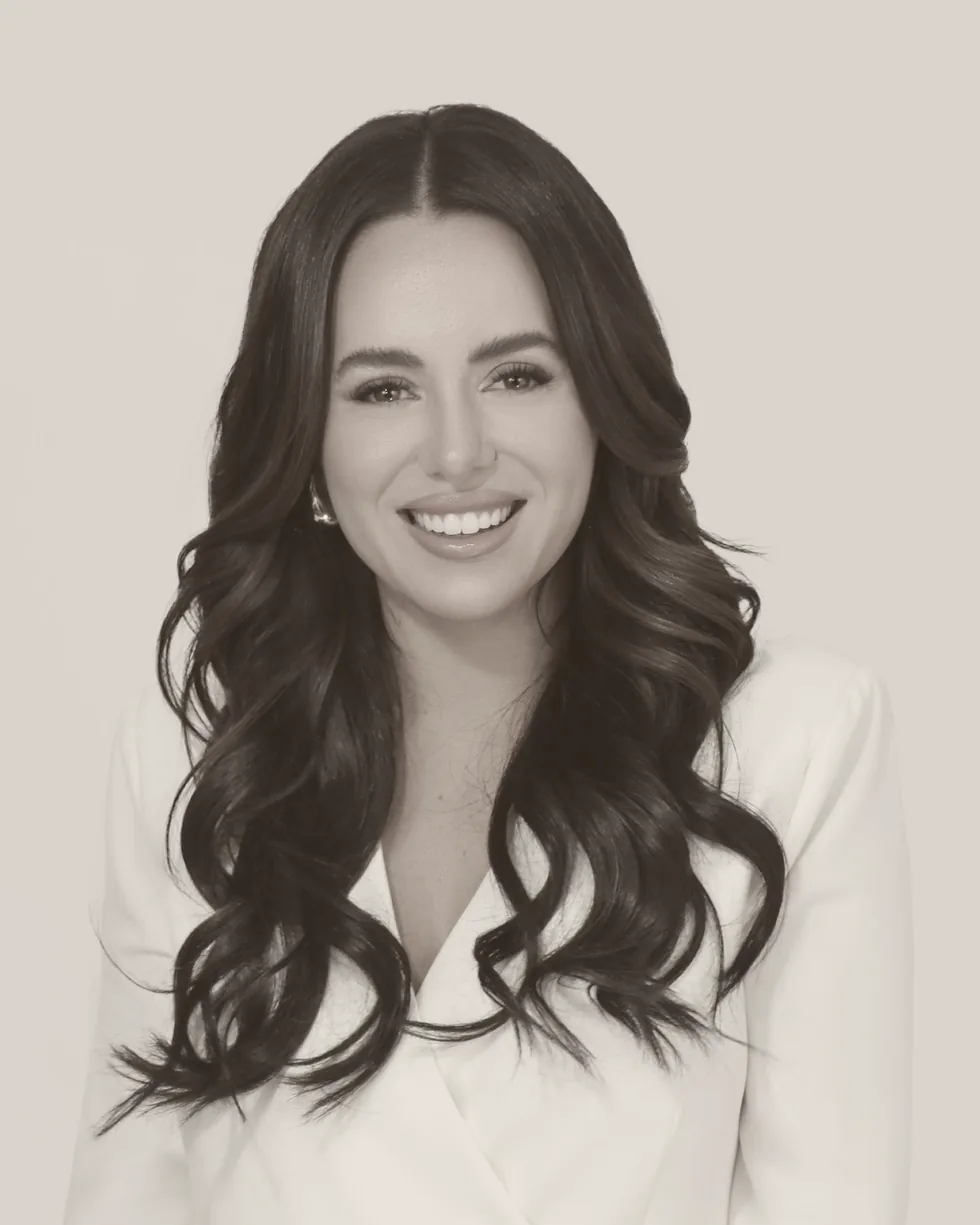
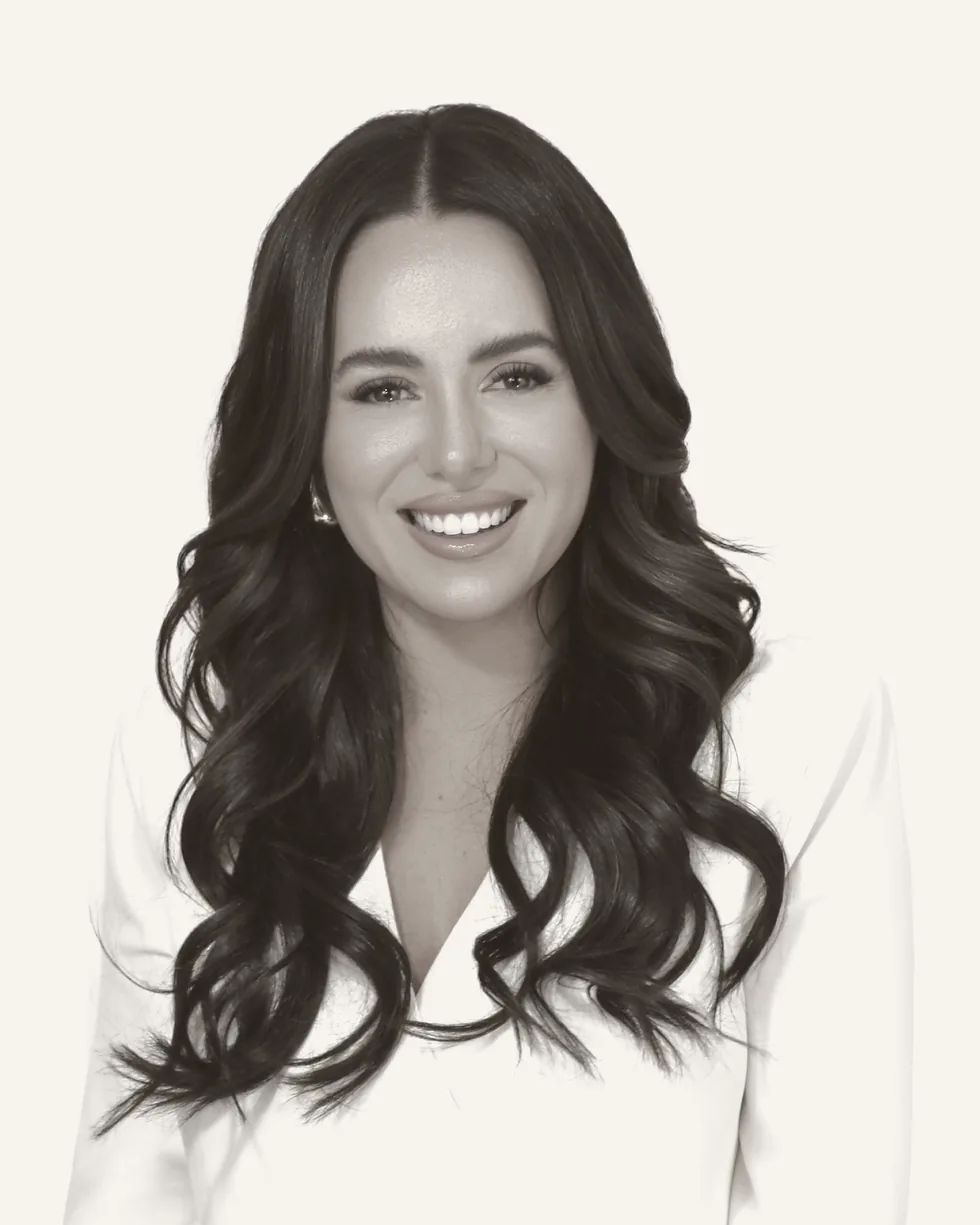
fix: right-size the hero portrait and drop the frame around the About photo
- Hero photo is smaller and its baseline now lines up with the bottom of
  the copy block, instead of running the full height of the section
- The black and white portrait in About has its backdrop mapped to the
  exact section cream, so it floats with no visible frame. Real colour is
  blended back only where there is a subject, which keeps the backdrop pure
- Mobile hero height reset so the 4:5 crop still applies there

Lighthouse mobile 100 / 100 / 100 / 100.

diff --git a/index.html b/index.html
@@ -175,12 +175,12 @@ h3.d{font-size:clamp(1.7rem,3vw,2.5rem);line-height:1.1}
 .burger.x span:nth-child(2){transform:translateY(-4px) rotate(-45deg)}
 
 /* ---------- hero ---------- */
-.hero{position:relative;padding:clamp(8rem,14vh,11rem) 0 0;overflow:hidden;background:var(--hero)}
+.hero{position:relative;padding:clamp(8rem,14vh,11rem) 0 clamp(2.5rem,6vh,4.5rem);overflow:hidden;background:var(--hero)}
 .hero__grid{
-  display:grid;grid-template-columns:1fr .82fr;
-  gap:clamp(2rem,5vw,5rem);align-items:end;
+  display:grid;grid-template-columns:1fr .72fr;
+  gap:clamp(2rem,5vw,4rem);align-items:end;
 }
-.hero__copy{padding-bottom:clamp(3rem,7vh,6rem)}
+.hero__copy{padding-bottom:0}
 .hero h1{margin-bottom:1.9rem}
 .hero h1 .ln{display:block;overflow:hidden}
 .hero h1 .ln > span{display:block;transform:translateY(105%);opacity:0}
@@ -206,11 +206,9 @@ h3.d{font-size:clamp(1.7rem,3vw,2.5rem);line-height:1.1}
 }
 .hero__meta .n em{font-style:italic;color:var(--bronze-deep)}
 .hero__meta .l{display:block;margin-top:.5rem;font-size:.63rem;letter-spacing:.19em;text-transform:uppercase;color:var(--ink-faint);line-height:1.5}
-.hero__fig{position:relative;align-self:stretch;min-height:clamp(26rem,64vh,44rem)}
-/* on wide screens the photo runs to the edge, so the matched ground reads as infinite */
-@media (min-width:1340px){.hero__fig{margin-right:calc((100vw - min(100% * 0 + var(--maxw), 100vw - var(--pad)*2)) / -2)}}
+.hero__fig{position:relative;align-self:end;height:clamp(24rem,62vh,38rem);min-height:0}
 .hero__fig img{
-  width:100%;height:100%;object-fit:cover;object-position:50% 18%;
+  width:100%;height:100%;object-fit:cover;object-position:50% 12%;
   clip-path:inset(0 0 100% 0);
 }
 .ready .hero__fig img{animation:wipeDown 1.5s var(--ease) .12s forwards}
@@ -224,7 +222,7 @@ h3.d{font-size:clamp(1.7rem,3vw,2.5rem);line-height:1.1}
 /* ---------- marquee ---------- */
 .marq{
   border-top:1px solid var(--line);border-bottom:1px solid var(--line);
-  padding:1.5rem 0;margin-top:clamp(3rem,7vh,5.5rem);overflow:hidden;
+  padding:1.5rem 0;margin-top:0;overflow:hidden;
   display:flex;user-select:none;
 }
 .marq__t{
@@ -393,7 +391,7 @@ h3.d{font-size:clamp(1.7rem,3vw,2.5rem);line-height:1.1}
 
 /* ---------- about ---------- */
 .ab{display:grid;grid-template-columns:.92fr 1.08fr;gap:clamp(2rem,6vw,5.5rem);align-items:center}
-.ab__fig{position:relative;aspect-ratio:4/5;overflow:hidden;background:var(--sand)}
+.ab__fig{position:relative;aspect-ratio:4/5;overflow:hidden;background:transparent}
 .ab__fig img{width:100%;height:100%;object-fit:cover;object-position:50% 22%}
 .ab__body p{color:var(--ink-soft);line-height:1.8;margin-bottom:1.2rem}
 .ab__body p:last-of-type{margin-bottom:0}
@@ -533,7 +531,7 @@ h3.d{font-size:clamp(1.7rem,3vw,2.5rem);line-height:1.1}
   .hero{padding-top:7rem}
   .hero__grid{grid-template-columns:1fr;gap:2.4rem}
   .hero__copy{padding-bottom:0;order:1}
-  .hero__fig{order:2;min-height:0;aspect-ratio:4/5;margin-inline:calc(var(--pad) * -1);width:100vw}
+  .hero__fig{order:2;min-height:0;height:auto;aspect-ratio:4/5;margin-inline:calc(var(--pad) * -1);width:100vw}
   .hero__meta{gap:1.3rem 2rem}
   .hero__meta div{max-width:9.5rem}
   .head--split{grid-template-columns:1fr;align-items:start;gap:1.4rem}

diff --git a/README.md b/README.md
@@ -58,9 +58,10 @@ então é só trocar os cartões marcados como "photo coming soon" por pares rea
 | Serviços | Uma foto do **estúdio novo** (ambiente, cadeira, luz) |
 | Sobre | Uma segunda foto dela **trabalhando**, não posada, para não repetir o retrato do hero |
 
-Os assets atuais estão em `assets/` já otimizados em WebP. O retrato do hero teve o fundo
-ajustado para `#E3DED4`, que é a cor de fundo da seção hero, para a foto parecer sem
-moldura. Se trocar a foto do hero, casar a cor de fundo de novo (`--hero` no CSS).
+Os assets atuais estão em `assets/` já otimizados em WebP. Duas fotos tiveram o fundo casado com a cor da seção em que aparecem, para ficarem sem
+moldura: o retrato do hero em `#E3DED4` (`--hero`) e o retrato preto e branco do bloco
+Sobre em `#F7F3ED` (`--cream`). Se trocar qualquer uma das duas, refazer esse casamento de
+cor, senão volta a aparecer o retângulo da foto.
 
 ## Rastreio de conversão
 
@@ -81,7 +82,7 @@ Lighthouse local, throttling real (`--throttling-method=devtools`):
 
 | | Performance | Acessibilidade | Boas práticas | SEO |
 |---|---|---|---|---|
-| Mobile | 99 | 100 | 100 | 100 |
+| Mobile | 100 | 100 | 100 | 100 |
 | Desktop | 85–92 | 100 | 100 | 100 |
 
 O desktop oscila por causa do servidor local sem compressão. Vale remedir na URL da Vercel
